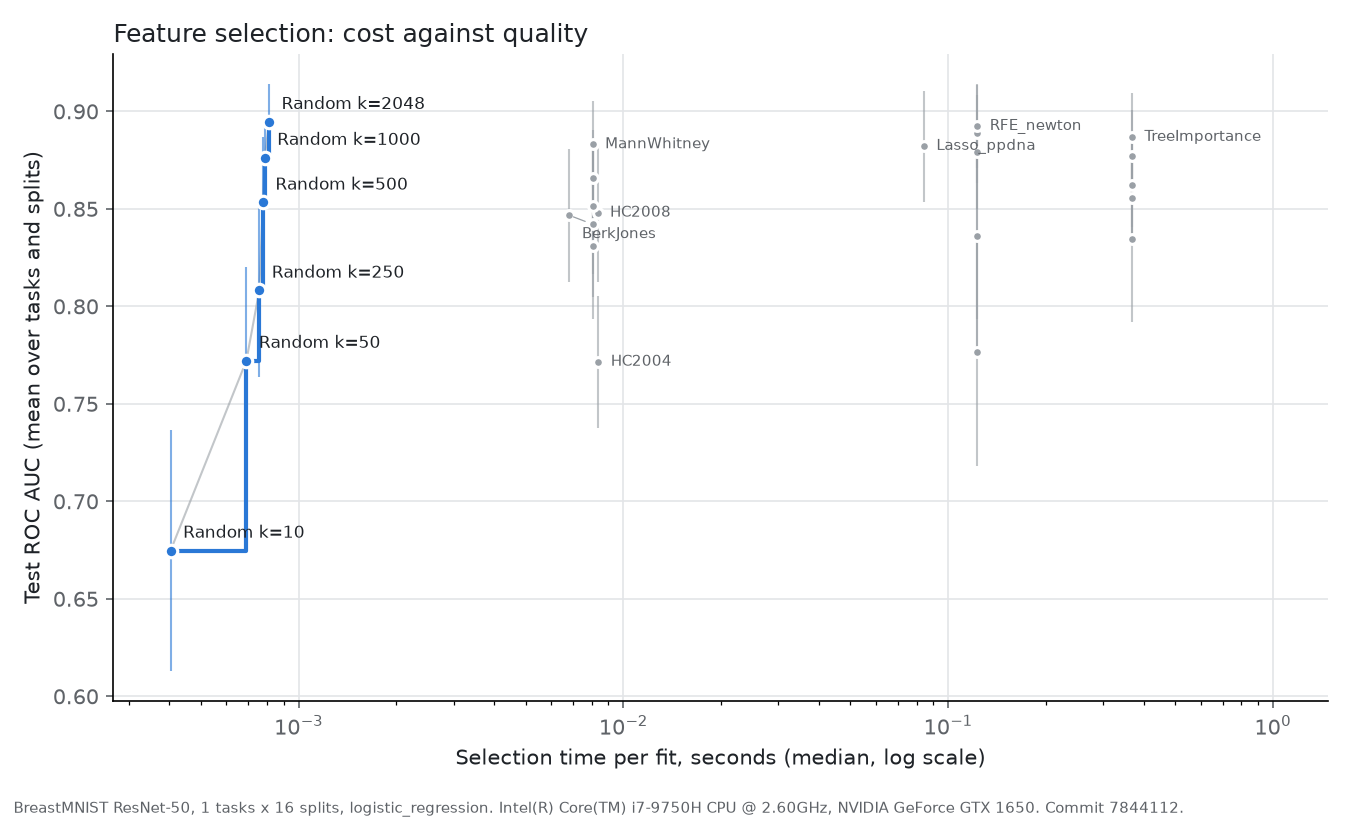
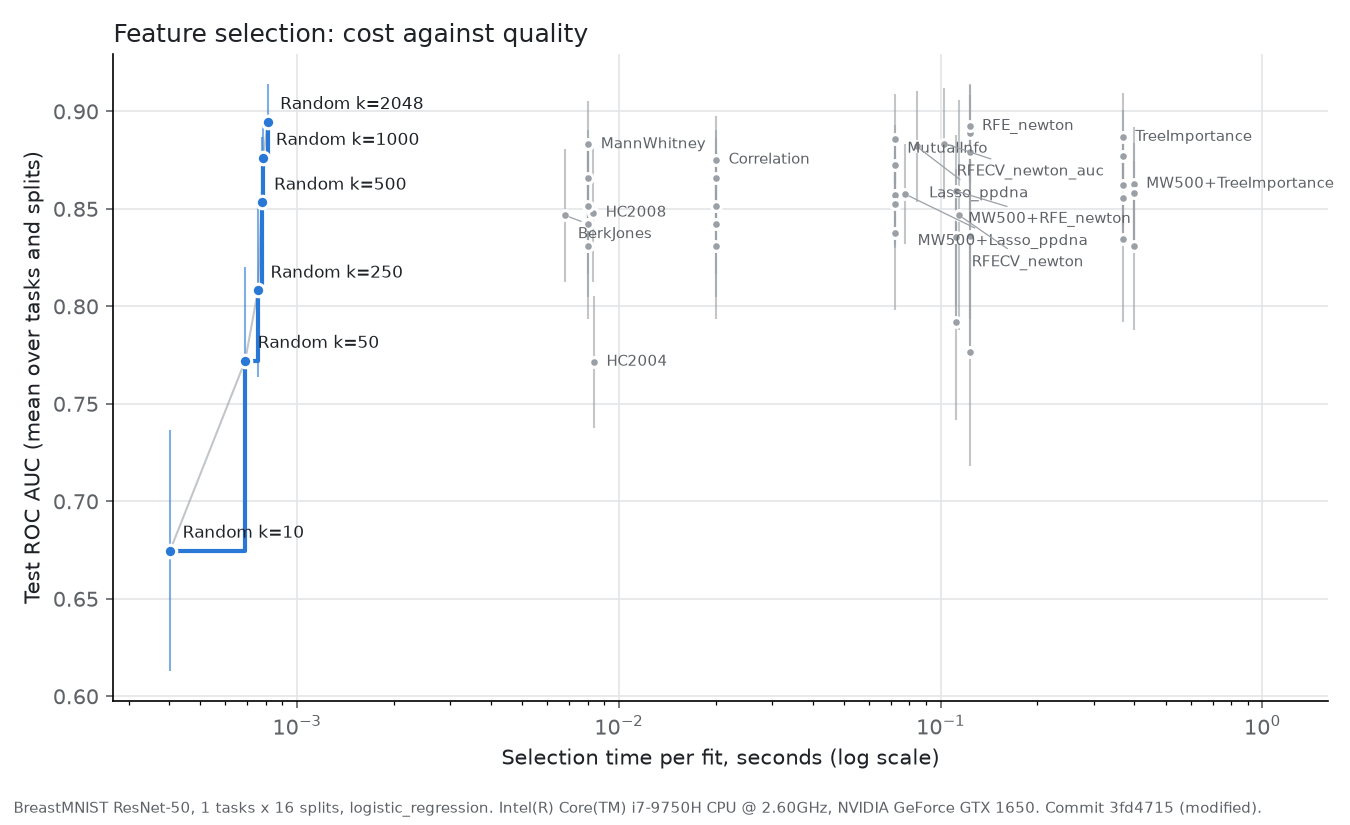
BreastMNIST without copies: every method of Table 5
Correlation, mutual information, the chains and both RFECV added to the
_nocopies config and run with --resume on the same splits. Without the
copies, scores fall by 0.016 to 0.042 AUC; the leaders change places
within 0.009; the conclusions hold.

diff --git a/detailed_report/09_conclusions.md b/detailed_report/09_conclusions.md
@@ -49,7 +49,7 @@ given.
 | A t-test corrected for overlapping splits | Random splits share most of their training samples, so a plain paired t-test is overconfident | Established differences from all genes fell from 52 to 20 of 70 comparisons; 10 of the 20 are gains (sections 3.3, 9.3 item 9) |
 | The public GSE96058 data, one sample per patient, not the course copies | The course copies keep 93 repeated patients, and `scanb_small` lacks 11 of the 50 PAM50 genes | It removed a leak, and made the PAM50 recovery test possible (sections 2.1, 7.6) |
 | The U test, not the F-test, for every filter | About half the gene values sit at a floor (in the first 200 genes), and only their order is meaningful | One valid test for all filters, so the comparison is between selection rules, not tests (section 4.3) |
-| Find the copied images in BreastMNIST | A quarter of the images repeat another, and copies fall on both sides of a split | Scores fell by about 0.03 AUC without the copies; the order of methods held (section 8.8) |
+| Find the copied images in BreastMNIST | A quarter of the images repeat another, and copies fall on both sides of a split | Scores fell by 0.016 to 0.042 AUC without the copies; the conclusions held (section 8.8) |
 | Exact solvers, not liblinear, for RFE, RFECV and Lasso | liblinear stops before the solution, and unless seeded it keeps different genes on each run | RFE became faster and repeatable, at the same AUC (section 6.2) |
 | RFECV scored by AUC, not accuracy | Accuracy rewards the majority class on imbalanced tasks | RFECV rose from 0.720 to 0.962 mean AUC on SCAN-B (section 7.8) |
 | Higher Criticism's search kept at 10% | Widening it to fit the data would tune the method to the answer | HC's behaviour on widespread signal is reported as it is (sections 4.4, 7.5) |
@@ -69,8 +69,8 @@ settings stated in their sections.
 2. Check for repeated samples. 93 patients appear twice in SCAN-B's HiSeq
    data (section 2.1). In BreastMNIST, a quarter of the images repeat
    another; even MedMNIST's fixed split puts copies on both sides, in 57
-   groups. Without the copies, scores fell by about 0.03 AUC, and the
-   order of methods changed little (section 8.8).
+   groups. Without the copies, all features fell by 0.029 AUC and the
+   methods by 0.016 to 0.042; the conclusions held (section 8.8).
 3. The gene values are on an arbitrary scale. In the first 200 genes,
    about half the values are tied at a floor. The F-test's assumptions do not hold for such values. A rank
    test (Mann-Whitney U) does not need them, so it fits this data.
@@ -199,7 +199,8 @@ described in the section given.
   measured (section 2.1). No measured target was run (section 10.1).
 - The BreastMNIST results in sections 8.1 to 8.7 and 8.10 include copied
   images.
-  Without them, the scores fall by about 0.03 AUC (section 8.8).
+  Without them, the scores fall by 0.016 to 0.042 AUC, and the
+  conclusions hold (section 8.8).
 
 **The protocol.**
 

diff --git a/final_report/README.md b/final_report/README.md
@@ -569,9 +569,11 @@ five tasks, in 3 s per fit instead of 10 minutes (D 7.9, 7.10).
 ### 6.7 Without the copied images
 
 BreastMNIST holds 150 groups of copied images (section 2). Without them,
-585 images remain. All features and the best methods lose about 0.03 AUC:
-all features fall from 0.924 to 0.895. The order of methods changes
-little (D 8.8). So the copies inflate the scores but do not change the
+585 images remain, and every method of Table 5 ran again. All features
+fall from 0.924 to 0.895 AUC, and the methods by 0.016 to 0.042. The
+leading methods change places within 0.009 AUC. RFE still ties all
+features, and the chains, HC2008, Berk-Jones and HC2004 still lose to
+them (D 8.8). So the copies inflate the scores but do not change the
 conclusions.
 
 ### 6.8 Cost
@@ -627,7 +629,7 @@ safe default.
 | A test corrected for overlapping splits | Random splits share most of their training samples | 20 of 70 comparisons with all genes are established, not more (section 6.2) |
 | GSE96058, one sample per patient, not the course copies | The copies kept 93 repeated patients, and the smaller one lacked 11 of the 50 PAM50 genes | It removed a leak and made the PAM50 test possible (sections 2.1, 6.5) |
 | The U test for every filter | Only the order of gene values is meaningful, and half sit at a floor | One valid test, so filters differ only in their selection rule (section 4) |
-| Find the copied images | Copies fall on both sides of a split | Scores fell by about 0.03 AUC; the order held (section 6.7) |
+| Find the copied images | Copies fall on both sides of a split | Scores fell by 0.016 to 0.042 AUC; the conclusions held (section 6.7) |
 | Exact solvers for RFE, RFECV and Lasso | liblinear stops before the solution, and unless seeded keeps different genes on each run | Repeatable selection, at the exact solution (section 5) |
 | RFECV scored by AUC | Accuracy rewards the larger class | RFECV rose from 0.720 to 0.962 mean AUC on SCAN-B (section 6.6) |
 | Higher Criticism's search kept at 10% | Widening it to fit the data would tune the method to the answer | Its behaviour on widespread signal is reported as it is (section 6.4) |
@@ -638,7 +640,8 @@ safe default.
 - **Data.** Three datasets, two of them embeddings from the same network.
   Every SCAN-B task predicts PAM50, a label computed from the genes; no
   measured target was run. The main BreastMNIST results include the
-  copied images.
+  copied images; a run without them gives the same conclusions (section
+  6.7).
 - **Protocol.** One classifier in the main runs, logistic regression with
   C fixed at 1. A side study with older settings (12 splits, half the
   patients in the training set, macro-F1) added a linear SVM, a random

diff --git a/detailed_report/appendix_c_comparison_tables.md b/detailed_report/appendix_c_comparison_tables.md
@@ -231,7 +231,11 @@ curve tables it is the last column of the random row.
 
 | Method | 10 | 50 | 250 | 500 | 1,000 | 2,048 |
 |---|---|---|---|---|---|---|
+| Correlation (Spearman) | 0.831 | 0.842 | 0.851 | 0.866 | 0.875 | — |
 | Mann-Whitney | 0.831 | 0.842 | 0.851 | 0.866 | 0.883 | — |
+| Mann-Whitney 500, then RFE | 0.792 | 0.836 | 0.859 | — | — | — |
+| Mann-Whitney 500, then tree importance | 0.831 | 0.863 | 0.858 | — | — | — |
+| Mutual information | 0.837 | 0.857 | 0.853 | 0.872 | 0.886 | — |
 | RFE | 0.776 | 0.836 | 0.879 | 0.889 | 0.892 | — |
 | Random | 0.675 | 0.772 | 0.808 | 0.853 | 0.876 | 0.895 |
 | Tree importance | 0.835 | 0.862 | 0.855 | 0.877 | 0.887 | — |
@@ -242,10 +246,17 @@ curve tables it is the last column of the random row.
 |---|---|---|---|---|---|
 | All features | 0.895 [0.877, 0.906] | 2,048 | 0.00 | — | — |
 | RFE | 0.891 [0.875, 0.906] | 1,000 (500 to 1,000) | 0.12 | 0.76 | 0.27 |
+| Mutual information | 0.887 [0.873, 0.901] | 1,000 (500 to 1,000) | 0.07 | 0.76 | 0.22 |
 | Tree importance | 0.885 [0.872, 0.894] | 1,000 (500 to 1,000) | 0.37 | 2.38 | 0.28 |
+| RFECV, by AUC | 0.884 [0.863, 0.902] | 416 (212 to 1,232) | 0.10 | 0.96 | 0.25 |
 | Mann-Whitney | 0.883 [0.869, 0.896] | 1,000 (500 to 1,000) | 0.01 | 0.43 | 0.63 |
 | Lasso | 0.882 [0.868, 0.898] | 90 (73 to 182) | 0.08 | 1.97 | 0.34 |
+| Correlation (Spearman) | 0.866 [0.848, 0.881] | 772 (10 to 813) | 0.02 | 0.47 | 0.61 |
+| Mann-Whitney 500, then RFE | 0.860 [0.837, 0.879] | 250 (50 to 250) | 0.11 | 0.59 | 0.40 |
+| Mann-Whitney 500, then Lasso | 0.858 [0.845, 0.865] | 66 (57 to 138) | 0.08 | 2.22 | 0.38 |
+| Mann-Whitney 500, then tree importance | 0.855 [0.840, 0.868] | 250 (10 to 250) | 0.40 | 2.15 | 0.46 |
 | HC2008 | 0.848 [0.839, 0.867] | 204 | 0.01 | — | 0.77 |
+| RFECV, by accuracy | 0.847 [0.816, 0.885] | 212 (8 to 416) | 0.11 | 0.83 | 0.21 |
 | Berk-Jones | 0.847 [0.839, 0.866] | 203 (175 to 204) | 0.01 | — | 0.77 |
 | HC2004 | 0.771 [0.752, 0.790] | 1 (1 to 2) | 0.01 | — | 0.85 |
 

diff --git a/detailed_report/08_results_images.md b/detailed_report/08_results_images.md
@@ -196,17 +196,30 @@ are faster and better than every method. The best method, RFE, reaches
 |---|---|---|---|
 | All features | **0.895** | 2,048 | — |
 | RFE | 0.891 | 500 to 1,000 | −0.003 (0.59) |
+| Mutual information | 0.887 | 500 to 1,000 | −0.007 (0.45) |
 | Tree importance | 0.885 | 500 to 1,000 | −0.009 (0.30) |
+| RFECV, by AUC | 0.884 | 212 to 1,232 | −0.011 (0.31) |
 | Mann-Whitney | 0.883 | 500 to 1,000 | −0.012 (0.09) |
 | Lasso | 0.882 | 73 to 182 | −0.013 (0.28) |
+| Correlation (Spearman) | 0.866 | 10 to 813 | −0.028 (0.07) |
+| Mann-Whitney 500, then RFE | 0.860 | 50 to 250 | −0.035 (0.009) |
+| Mann-Whitney 500, then Lasso | 0.858 | 57 to 138 | −0.037 (0.002) |
+| Mann-Whitney 500, then tree importance | 0.855 | 10 to 250 | −0.040 (0.02) |
 | HC2008 | 0.848 | 204 | −0.047 (0.02) |
+| RFECV, by accuracy | 0.847 | 8 to 416 | −0.048 (0.19) |
 | Berk-Jones | 0.847 | 175 to 204 | −0.048 (0.02) |
 | HC2004 | 0.771 | 1 to 2 | −0.123 (< 0.001) |
 
-Without the copies, all features and the best
-methods lost about 0.03 AUC; Lasso lost 0.016, and HC2004 gained 0.013.
-The order changed little: tree importance moved above Mann-Whitney. So the
-copies inflate the scores but do not change the conclusions. Table:
+Correlation, mutual information, the chains and both RFECV were added
+after the first run without copies, on the same splits.
+
+Without the copies, all features lost 0.029 AUC, and the methods lost
+0.016 to 0.042; HC2004 gained 0.013. The top of the order changed within
+0.009 AUC: mutual information, tree importance and RFECV by AUC moved
+above Mann-Whitney. RFE still ties all features. The chains, HC2008,
+Berk-Jones and HC2004 still lose to all features (p < 0.05); correlation
+and Lasso no longer do (p = 0.07 and 0.28). So the copies inflate the
+scores, but the conclusions of sections 8.3 to 8.7 hold. Table:
 [`figures/summary_breastmnist70_nocopies_chosen.csv`](figures/summary_breastmnist70_nocopies_chosen.csv).
 
 ## 8.9 An unseen dataset: FGVC-Aircraft
